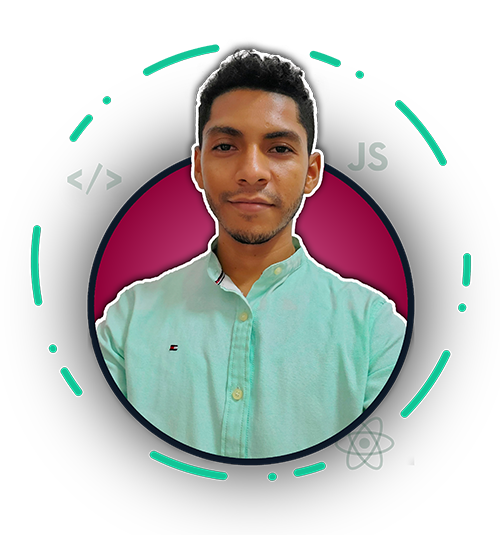
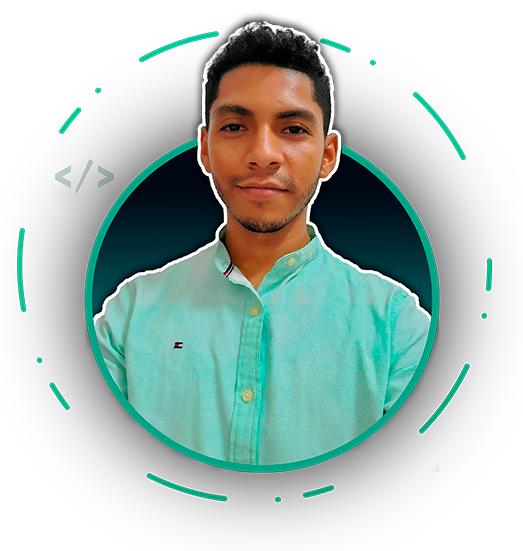
theme dark

diff --git a/src/components/navbar/Navbar.tsx b/src/components/navbar/Navbar.tsx
@@ -1,0 +1,69 @@
+import { useContext } from 'react'
+import { ThemeContext } from 'src/context/ThemeContext'
+
+export function NavBar (): JSX.Element {
+  const { isDark, changeTheme } = useContext(ThemeContext)
+  const calssLinks = (): string => `relative linknav activeEfect ${isDark ? 'hover:text-white' : 'hover:text-black'}`
+  const links = [{
+    link: '#presentation',
+    label: 'Presentación',
+    class: calssLinks()
+  },
+  {
+    link: '#skills',
+    label: 'Habilidades',
+    class: calssLinks()
+  },
+  {
+    link: '#aboutme',
+    label: 'Acerca de Mí',
+    class: calssLinks()
+  }]
+  return (
+    <nav className={`${isDark ? 'text-secondary' : 'text-primary'} navbar fixed bg-transparent backdrop-blur-lg justify-between px-8 xl:px-64 w-full`}>
+      <div className='flex items-center gap-2'>
+        <div className='md:hidden btn btn-ghost btn-circle'>
+          <svg xmlns='http://www.w3.org/2000/svg' fill='none' viewBox='0 0 24 24' strokeWidth={1.5} stroke='currentColor' width='25' height='25'>
+            <path strokeLinecap='round' strokeLinejoin='round' d='M3.75 6.75h16.5M3.75 12h16.5m-16.5 5.25h16.5' />
+          </svg>
+        </div>
+        <a href='#home' className='text-xl activeEfect'>MarlonOcampo</a>
+      </div>
+      <div className='hidden md:flex items-center gap-8'>
+        {links.map(item => {
+          return (<a key={item.link} href={item.link} className={item.class}>{item.label}</a>)
+        })}
+      </div>
+      <div className='flex items-center gap-2'>
+        <div className='tooltip tooltip-bottom' data-tip='GitHub Profile'>
+          <a href='https://github.com/marlonocampo' target='blank' className='btn btn-ghost btn-circle' aria-label='github profile'>
+            <svg xmlns='http://www.w3.org/2000/svg' width='20' height='20' fill='currentColor' viewBox='0 0 16 16'>
+              <path d='M8 0C3.58 0 0 3.58 0 8c0 3.54 2.29 6.53 5.47 7.59.4.07.55-.17.55-.38 0-.19-.01-.82-.01-1.49-2.01.37-2.53-.49-2.69-.94-.09-.23-.48-.94-.82-1.13-.28-.15-.68-.52-.01-.53.63-.01 1.08.58 1.23.82.72 1.21 1.87.87 2.33.66.07-.52.28-.87.51-1.07-1.78-.2-3.64-.89-3.64-3.95 0-.87.31-1.59.82-2.15-.08-.2-.36-1.02.08-2.12 0 0 .67-.21 2.2.82.64-.18 1.32-.27 2-.27.68 0 1.36.09 2 .27 1.53-1.04 2.2-.82 2.2-.82.44 1.1.16 1.92.08 2.12.51.56.82 1.27.82 2.15 0 3.07-1.87 3.75-3.65 3.95.29.25.54.73.54 1.48 0 1.07-.01 1.93-.01 2.2 0 .21.15.46.55.38A8.012 8.012 0 0 0 16 8c0-4.42-3.58-8-8-8z' />
+            </svg>
+          </a>
+        </div>
+        <div className='tooltip tooltip-bottom' data-tip='Theme'>
+          <button className='btn btn-ghost btn-circle' aria-label='theme' onClick={changeTheme}>
+            <svg
+              xmlns='http://www.w3.org/2000/svg' fill='none' viewBox='0 0 24 24'
+              strokeWidth={1.5} stroke='currentColor' className='w-6 h-6'
+            >
+              <path
+                strokeLinecap='round' strokeLinejoin='round' d='M21.752 15.002A9.718 9.718 0 0118 15.75c-5.385
+              0-9.75-4.365-9.75-9.75 0-1.33.266-2.597.748-3.752A9.753 9.753 0 003 11.25C3 16.635 7.365 21 12.75 21a9.753
+              9.753 0 009.002-5.998z'
+              />
+            </svg>
+          </button>
+        </div>
+        <div className='tooltip tooltip-bottom' data-tip='LinkedInd'>
+          <a href='#' className='btn btn-ghost btn-circle avatar'>
+            <div className='w-8'>
+              <img className='rounded-full' alt='marlonocampo' src='/src/assets/images/minProfile.webp' />
+            </div>
+          </a>
+        </div>
+      </div>
+    </nav>
+  )
+}

diff --git a/src/components/sections/presentation/Presentation.tsx b/src/components/sections/presentation/Presentation.tsx
@@ -1,0 +1,30 @@
+import { useContext } from 'react'
+import { ThemeContext } from 'src/context/ThemeContext'
+export function Presentation (): JSX.Element {
+  const { isDark } = useContext(ThemeContext)
+  return (
+    <div id='#home' className={'gridColumns pt-28 px-8 h-[90vh] xl:px-64'}>
+      <div className='flex justify-center items-center'>
+        <img className='xs:w-[400px] lg:w-auto' src='/src/assets/images/profilePhoto.webp' alt='Photo profile marlonocampo' />
+      </div>
+      <div className='flex justify-center items-center'>
+        <article className={`${isDark ? 'text-secondary' : 'text-primary'} prose md:prose-lg xl:w-[80%]`}>
+          <p className='text-3xl'>¡Hola,</p>
+          <h1 className='text-info'>Soy Marlon Ocampo!</h1>
+          <p className='text-2xl'>
+            Me dedico al desarrollo de software, con experiencia en la creación de soluciones profesionales
+            con las herramientas que mejor se adapten.
+          </p>
+          <a href='#'>
+            <button className='btn rounded-full mt-12 shadow-xl btn-info'>
+              <svg className='w-6 h-6 animate-bounce' xmlns='http://www.w3.org/2000/svg' fill='none' viewBox='0 0 24 24' strokeWidth='1.5' stroke='currentColor'>
+                <path strokeLinecap='round' strokeLinejoin='round' d='M3 16.5v2.25A2.25 2.25 0 005.25 21h13.5A2.25 2.25 0 0021 18.75V16.5M16.5 12L12 16.5m0 0L7.5 12m4.5 4.5V3' />
+              </svg>
+              Descargar CV
+            </button>
+          </a>
+        </article>
+      </div>
+    </div>
+  )
+}

diff --git a/src/assets/styles/index.css b/src/assets/styles/index.css
@@ -2,9 +2,27 @@
 @tailwind components;
 @tailwind utilities;
 
+html {
+  ::-webkit-scrollbar {
+    width: 5px;
+    height: 7px;
+    background-color: #131d3f;
+  }
+
+  ::-webkit-scrollbar-thumb {
+    border-radius: 20px;
+    background-color: #66769b;
+  }
+
+  min-width: 400px;
+  overflow: auto;
+}
+
 @font-face {
   font-family: overpass;
   src: url('/src/assets/fonts/Overpass.woff2') format('woff2');
+  font-display: swap;
+  font-style: normal;
 }
 
 h1 {
@@ -14,6 +32,12 @@ h1 {
 @layer components {
   .linknav:hover::after {
     transform: scale(1, 1);
+  }
+
+  .activeEfect:active {
+    transform: scale(0.95);
+    transition: transform 0.2s;
+    cursor: pointer;
   }
 
   .linknav::after {
@@ -29,17 +53,10 @@ h1 {
     transition: transform 0.2s ease;
   }
 
-  .linknav:active {
-    transform: scale(0.95);
-    transition: transform 0.2s;
-  }
-
-  .grid2columsn {
+  .gridColumns {
     display: grid;
-    grid-template-columns: repeat(auto-fit, minmax(250px, 1fr));
+    grid-template-columns: repeat(auto-fit, minmax(400px, 1fr));
     gap: 2em;
-    margin: 1em;
-    margin-top: 4em;
     place-content: center;
   }
 }

diff --git a/src/components/App.tsx b/src/components/App.tsx
@@ -1,11 +1,20 @@
-import { Presentation } from './pages/presentation/Presentation'
-import { NavBar } from './appbar/NavBar'
+import { useContext } from 'react'
+import { Presentation } from './sections/presentation/Presentation'
+import { NavBar } from './navbar/Navbar'
+import { Skills } from './sections/Skills'
+import { ScrollDown } from './sections/ScrollDown'
+import { ThemeContext } from 'src/context/ThemeContext'
 
 export function App (): JSX.Element {
+  const { isDark } = useContext(ThemeContext)
+
   return (
-    <main>
+    <main className={isDark ? 'bg-primary' : 'bg-secondary-content'}>
+      <div className='badge text-black bg-amber-500 top-1 fixed mt-20 p-3 rounded-lg'>In Development</div>
       <NavBar />
       <Presentation />
+      <ScrollDown />
+      <Skills />
     </main>
   )
 }

diff --git a/tailwind.config.js b/tailwind.config.js
@@ -8,7 +8,8 @@ export default {
     './src/**/*.{jsx,tsx}'
   ],
   theme: {
-    extend: {}
+    extend: {
+    }
   },
   plugins: [daysiui, typography],
   daisyui: {
@@ -16,12 +17,12 @@ export default {
       {
         marlonocampoTheme: {
           primary: '#131d3f',
-          'primary-focus': '#d7d7d7',
-          secondary: '#01bebe',
-          accent: '#bec6da',
+          secondary: '#cfd7f1',
+          'secondary-content': '#f3f6ff',
+          info: '#01bebe',
+          'font-size': '16px',
+          white: '#cfd7f1',
           neutral: '#3d4451',
-          'base-50': '#000',
-          'font-size': '14px',
           fontFamily: ['overpass']
         }
       }

diff --git a/src/context/ThemeContext.tsx b/src/context/ThemeContext.tsx
@@ -1,0 +1,24 @@
+import { createContext, useState } from 'react'
+
+interface contextProps {
+  isDark: boolean
+  changeTheme: () => void
+}
+
+export const ThemeContext = createContext<contextProps>({ isDark: true, changeTheme: () => {} })
+
+export function ThemeProvider ({ children }: any): JSX.Element {
+  const [theme, setTheme] = useState<boolean>(true)
+  const changeTheme = (): void => setTheme(!theme)
+
+  const valuesProvider = {
+    isDark: theme,
+    changeTheme
+  }
+
+  return (
+    <ThemeContext.Provider value={valuesProvider}>
+      {children}
+    </ThemeContext.Provider>
+  )
+}

diff --git a/src/main.tsx b/src/main.tsx
@@ -1,6 +1,7 @@
 import { StrictMode } from 'react'
 import { createRoot } from 'react-dom/client'
 import { App } from './components/App'
+import { ThemeProvider } from './context/ThemeContext'
 import '../src/assets/styles/index.css'
 
 const main: HTMLElement | null = document.getElementById('main')
@@ -12,6 +13,8 @@ const app = createRoot(main)
 
 app.render(
   <StrictMode>
-    <App />
+    <ThemeProvider>
+      <App />
+    </ThemeProvider>
   </StrictMode>
 )

diff --git a/index.html b/index.html
@@ -9,22 +9,6 @@
 </head>
 
 <body>
-  <style>
-    ::-webkit-scrollbar {
-      width: 5px;
-      height: 7px;
-      background-color: #c6d5ee;
-    }
-
-    ::-webkit-scrollbar-thumb {
-      border-radius: 20px;
-      background-color: #566786;
-    }
-    html{
-      min-width: 300px;
-      overflow: auto;
-    }
-  </style>
   <div id="main"></div>
   <script src="./src/main.tsx" type="module"></script>
 </body>

diff --git a/src/components/sections/Skills.tsx b/src/components/sections/Skills.tsx
@@ -1,0 +1,10 @@
+export function Skills (): JSX.Element {
+  return (
+    <>
+      <div className='flex justify-center items-center flex-col'>
+        <div className='divider' />
+        <h1 className='text-5xl font-bold text-primary-content mt-10'>Habilidades!</h1>
+      </div>
+    </>
+  )
+}

diff --git a/postcss.config.js b/postcss.config.js
@@ -3,6 +3,7 @@ import * as autoprefixer from 'autoprefixer'
 
 export default {
   plugins: {
+    'tailwindcss/nesting': 'postcss-nesting',
     tailwindcss: tailwind,
     autoprefixer
   }

diff --git a/src/components/sections/ScrollDown.tsx b/src/components/sections/ScrollDown.tsx
@@ -1,0 +1,5 @@
+export function ScrollDown (): JSX.Element {
+  return (
+    <></>
+  )
+}

diff --git a/src/components/theme/ThemeStyle.tsx b/src/components/theme/ThemeStyle.tsx
@@ -1,0 +1,3 @@
+export function ThemeStyle (): JSX.Element {
+  return <></>
+}
